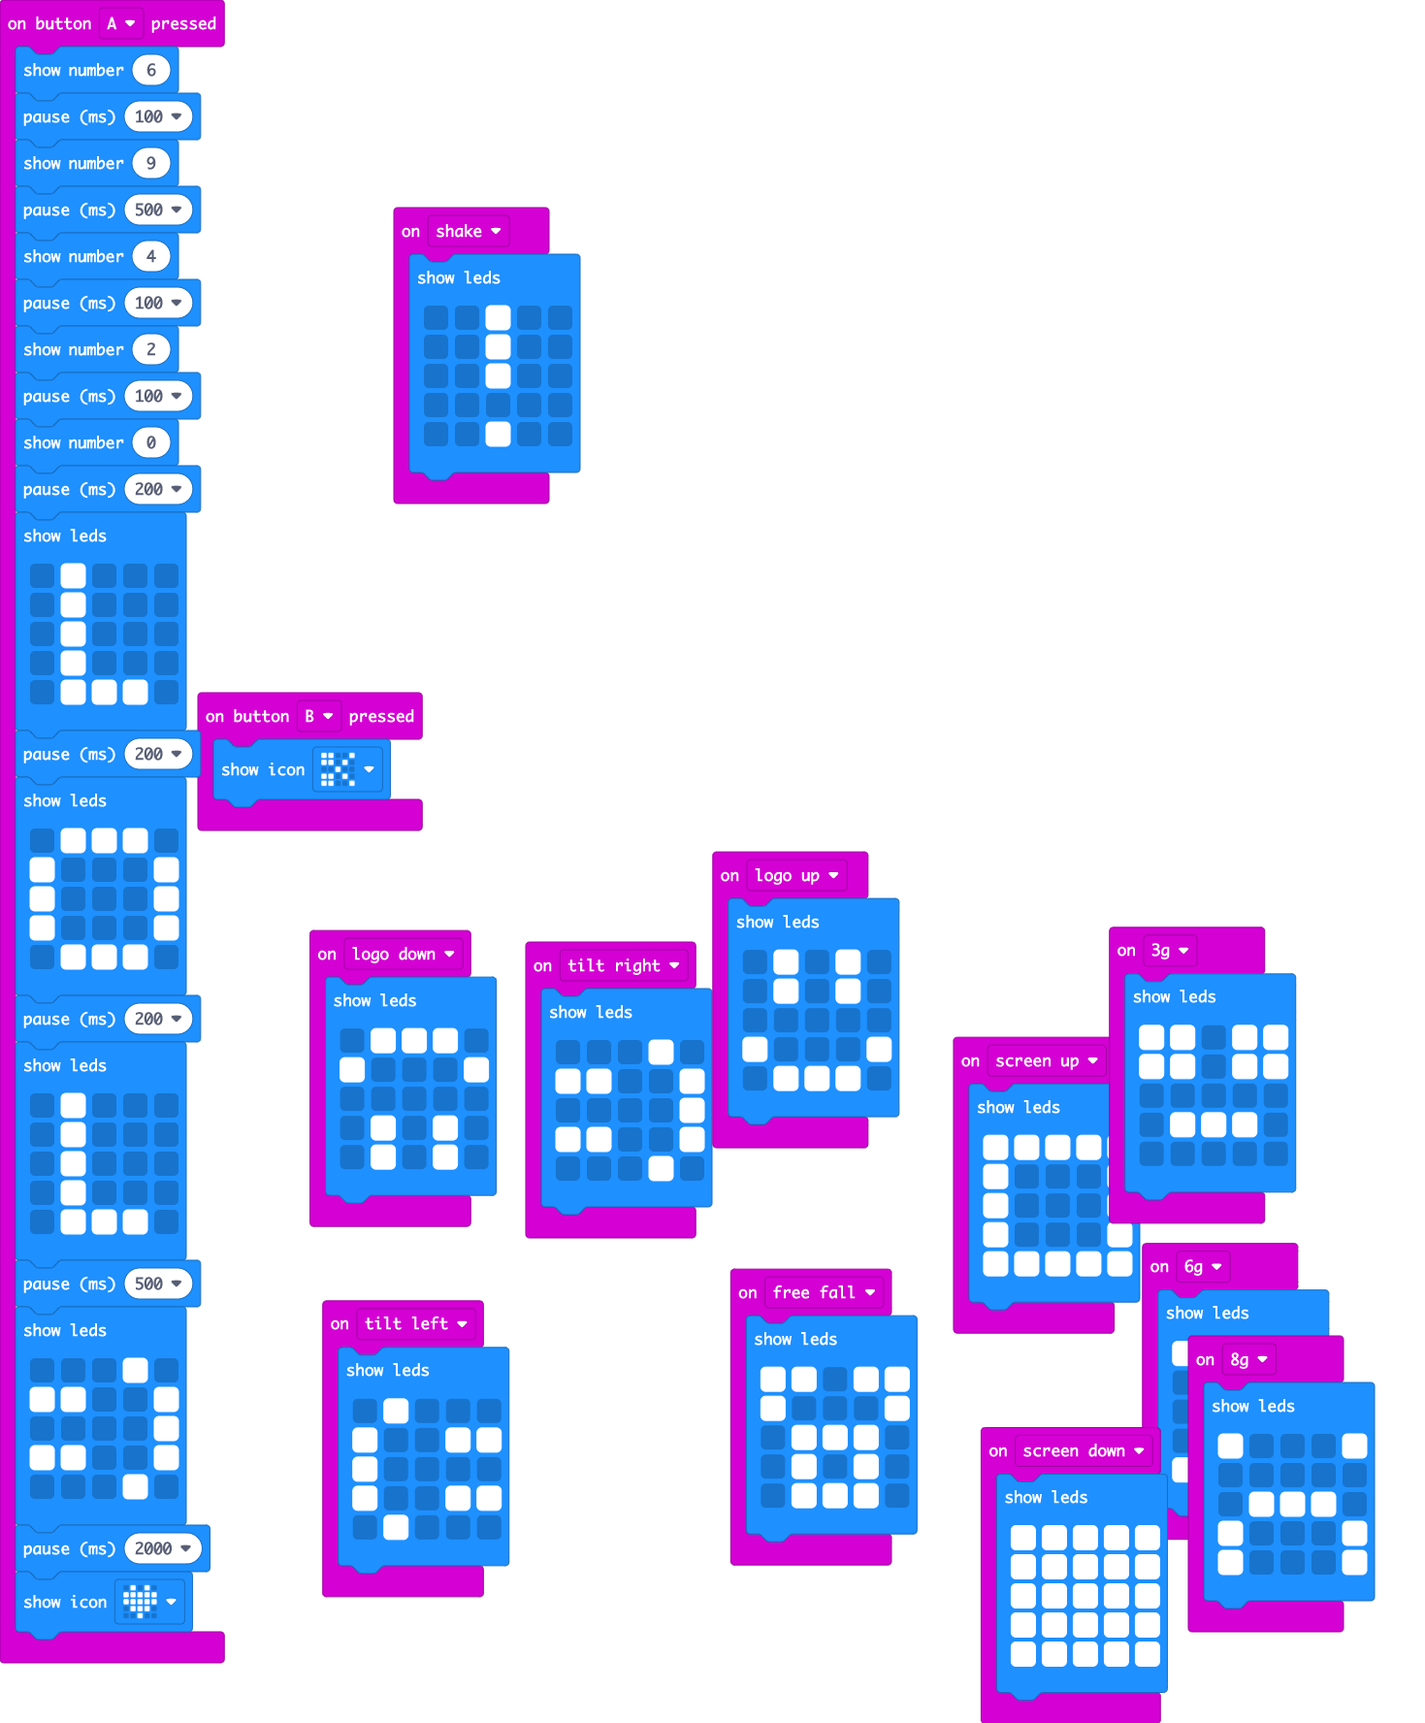
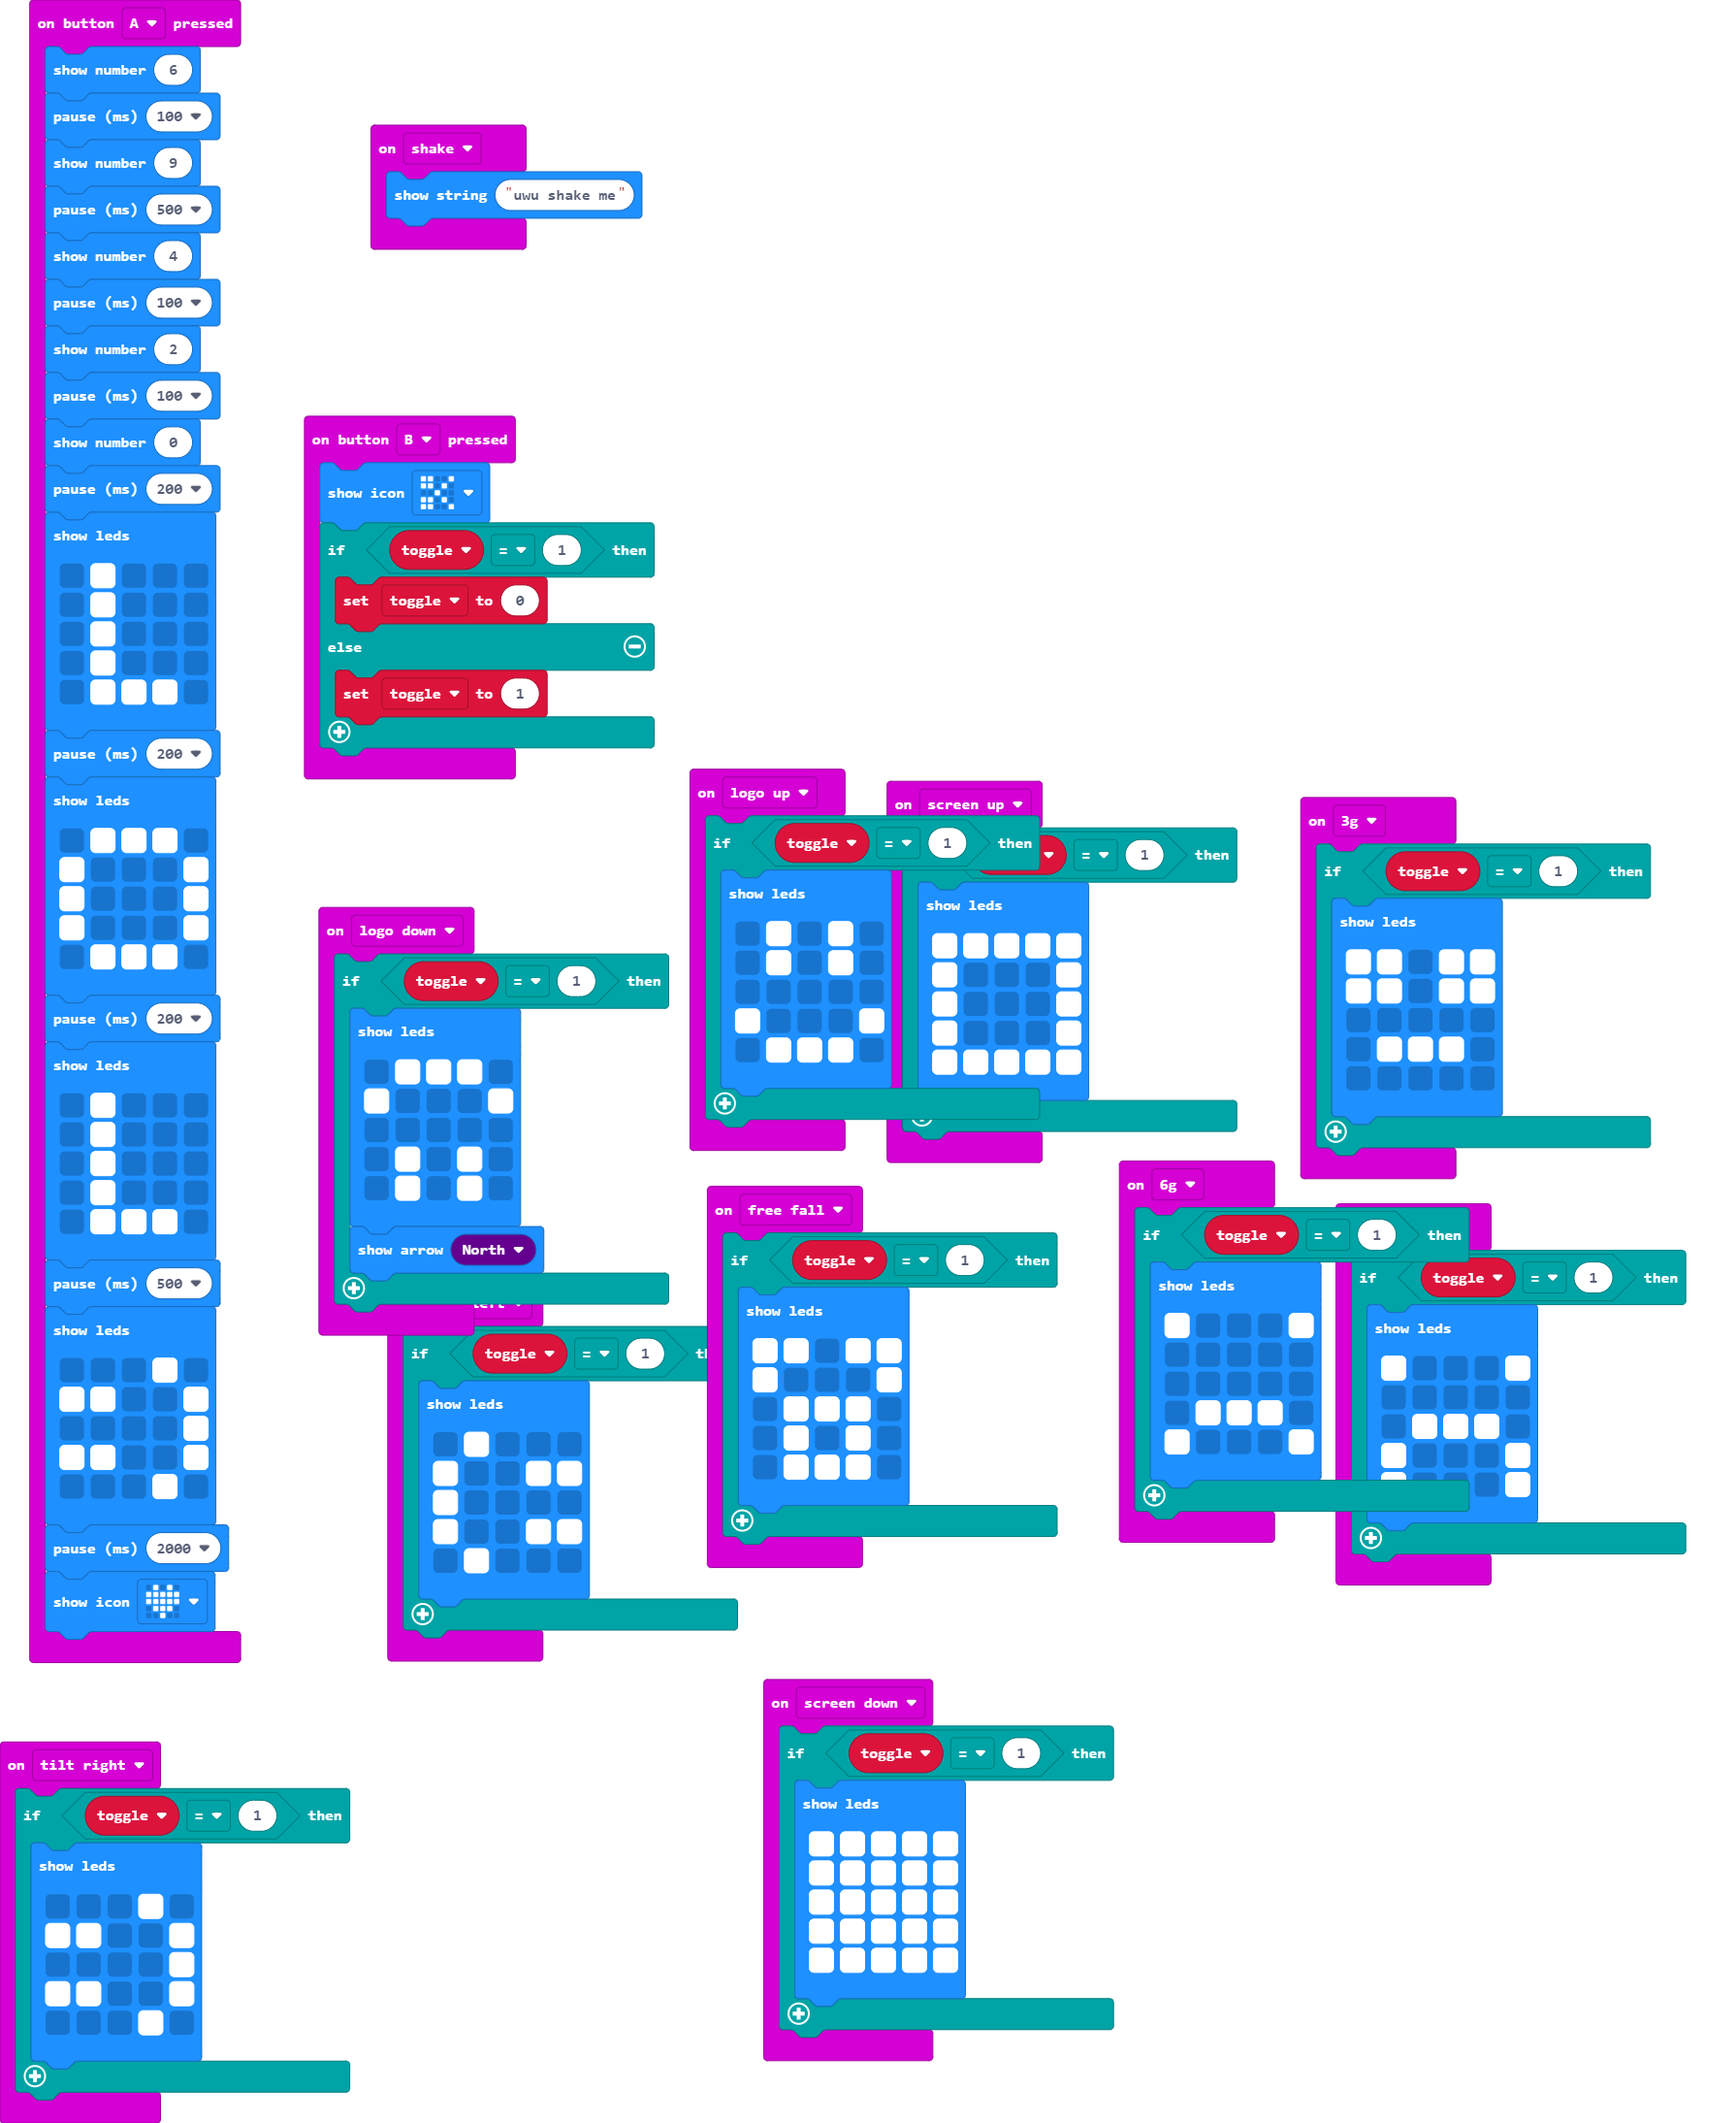
Update pxt.json, main.blocks, main.ts

diff --git a/main.ts b/main.ts
@@ -1,11 +1,14 @@
+let toggle = 0
 input.onGesture(Gesture.EightG, function () {
-    basic.showLeds(`
-        # . . . #
-        . . . . .
-        . # # # .
-        # . . . #
-        # . . . #
-        `)
+    if (toggle == 1) {
+        basic.showLeds(`
+            # . . . #
+            . . . . .
+            . # # # .
+            # . . . #
+            # . . . #
+            `)
+    }
 })
 input.onButtonPressed(Button.A, function () {
     basic.showNumber(6)
@@ -53,95 +56,113 @@ input.onButtonPressed(Button.A, function () {
     basic.showIcon(IconNames.Heart)
 })
 input.onGesture(Gesture.FreeFall, function () {
-    basic.showLeds(`
-        # # . # #
-        # . . . #
-        . # # # .
-        . # . # .
-        . # # # .
-        `)
+    if (toggle == 1) {
+        basic.showLeds(`
+            # # . # #
+            # . . . #
+            . # # # .
+            . # . # .
+            . # # # .
+            `)
+    }
 })
 input.onGesture(Gesture.LogoUp, function () {
-    basic.showLeds(`
-        . # . # .
-        . # . # .
-        . . . . .
-        # . . . #
-        . # # # .
-        `)
+    if (toggle == 1) {
+        basic.showLeds(`
+            . # . # .
+            . # . # .
+            . . . . .
+            # . . . #
+            . # # # .
+            `)
+    }
 })
 input.onGesture(Gesture.TiltLeft, function () {
-    basic.showLeds(`
-        . # . . .
-        # . . # #
-        # . . . .
-        # . . # #
-        . # . . .
-        `)
+    if (toggle == 1) {
+        basic.showLeds(`
+            . # . . .
+            # . . # #
+            # . . . .
+            # . . # #
+            . # . . .
+            `)
+    }
 })
 input.onGesture(Gesture.SixG, function () {
-    basic.showLeds(`
-        # . . . #
-        . . . . .
-        . . . . .
-        . # # # .
-        # . . . #
-        `)
+    if (toggle == 1) {
+        basic.showLeds(`
+            # . . . #
+            . . . . .
+            . . . . .
+            . # # # .
+            # . . . #
+            `)
+    }
 })
 input.onGesture(Gesture.ScreenUp, function () {
-    basic.showLeds(`
-        # # # # #
-        # . . . #
-        # . . . #
-        # . . . #
-        # # # # #
-        `)
+    if (toggle == 1) {
+        basic.showLeds(`
+            # # # # #
+            # . . . #
+            # . . . #
+            # . . . #
+            # # # # #
+            `)
+    }
 })
 input.onGesture(Gesture.ScreenDown, function () {
-    basic.showLeds(`
-        # # # # #
-        # # # # #
-        # # # # #
-        # # # # #
-        # # # # #
-        `)
+    if (toggle == 1) {
+        basic.showLeds(`
+            # # # # #
+            # # # # #
+            # # # # #
+            # # # # #
+            # # # # #
+            `)
+    }
 })
 input.onButtonPressed(Button.B, function () {
     basic.showIcon(IconNames.Scissors)
+    if (toggle == 1) {
+        toggle = 0
+    } else {
+        toggle = 1
+    }
 })
 input.onGesture(Gesture.Shake, function () {
-    basic.showLeds(`
-        . . # . .
-        . . # . .
-        . . # . .
-        . . . . .
-        . . # . .
-        `)
+    basic.showString("uwu shake me")
 })
 input.onGesture(Gesture.TiltRight, function () {
-    basic.showLeds(`
-        . . . # .
-        # # . . #
-        . . . . #
-        # # . . #
-        . . . # .
-        `)
+    if (toggle == 1) {
+        basic.showLeds(`
+            . . . # .
+            # # . . #
+            . . . . #
+            # # . . #
+            . . . # .
+            `)
+    }
 })
 input.onGesture(Gesture.LogoDown, function () {
-    basic.showLeds(`
-        . # # # .
-        # . . . #
-        . . . . .
-        . # . # .
-        . # . # .
-        `)
+    if (toggle == 1) {
+        basic.showLeds(`
+            . # # # .
+            # . . . #
+            . . . . .
+            . # . # .
+            . # . # .
+            `)
+        basic.showArrow(ArrowNames.North)
+    }
 })
 input.onGesture(Gesture.ThreeG, function () {
-    basic.showLeds(`
-        # # . # #
-        # # . # #
-        . . . . .
-        . # # # .
-        . . . . .
-        `)
+    if (toggle == 1) {
+        basic.showLeds(`
+            # # . # #
+            # # . # #
+            . . . . .
+            . # # # .
+            . . . . .
+            `)
+    }
 })
